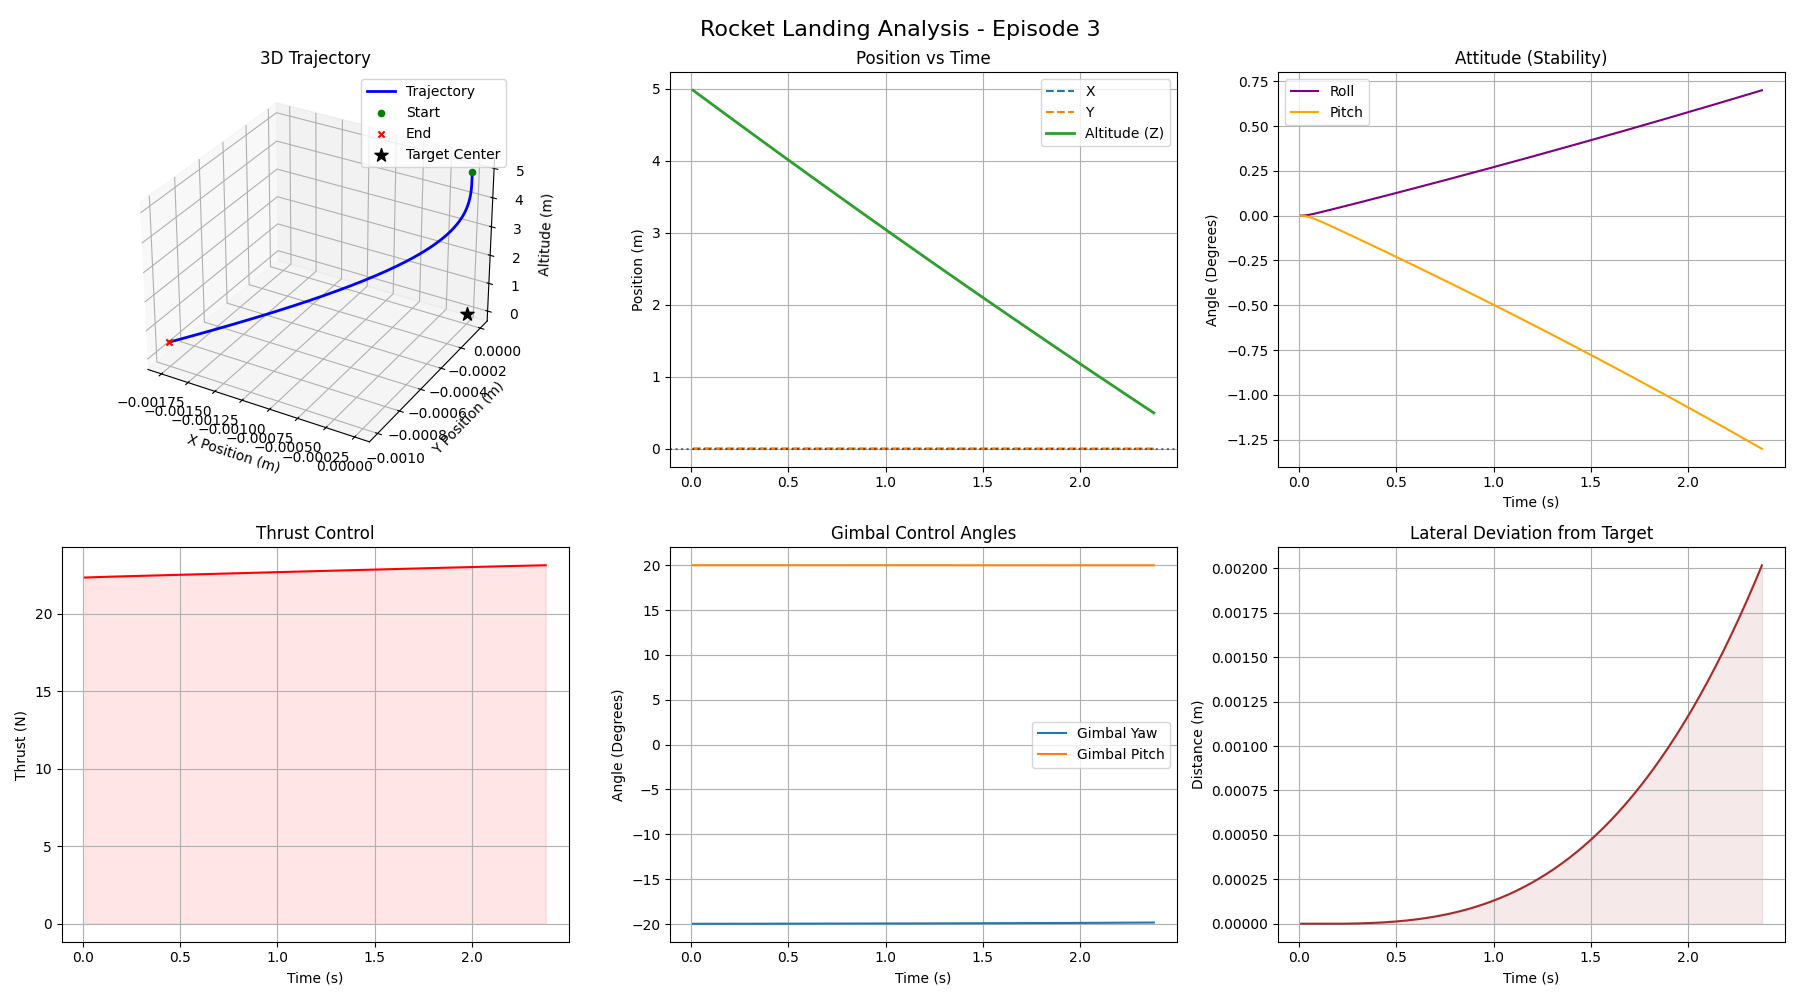
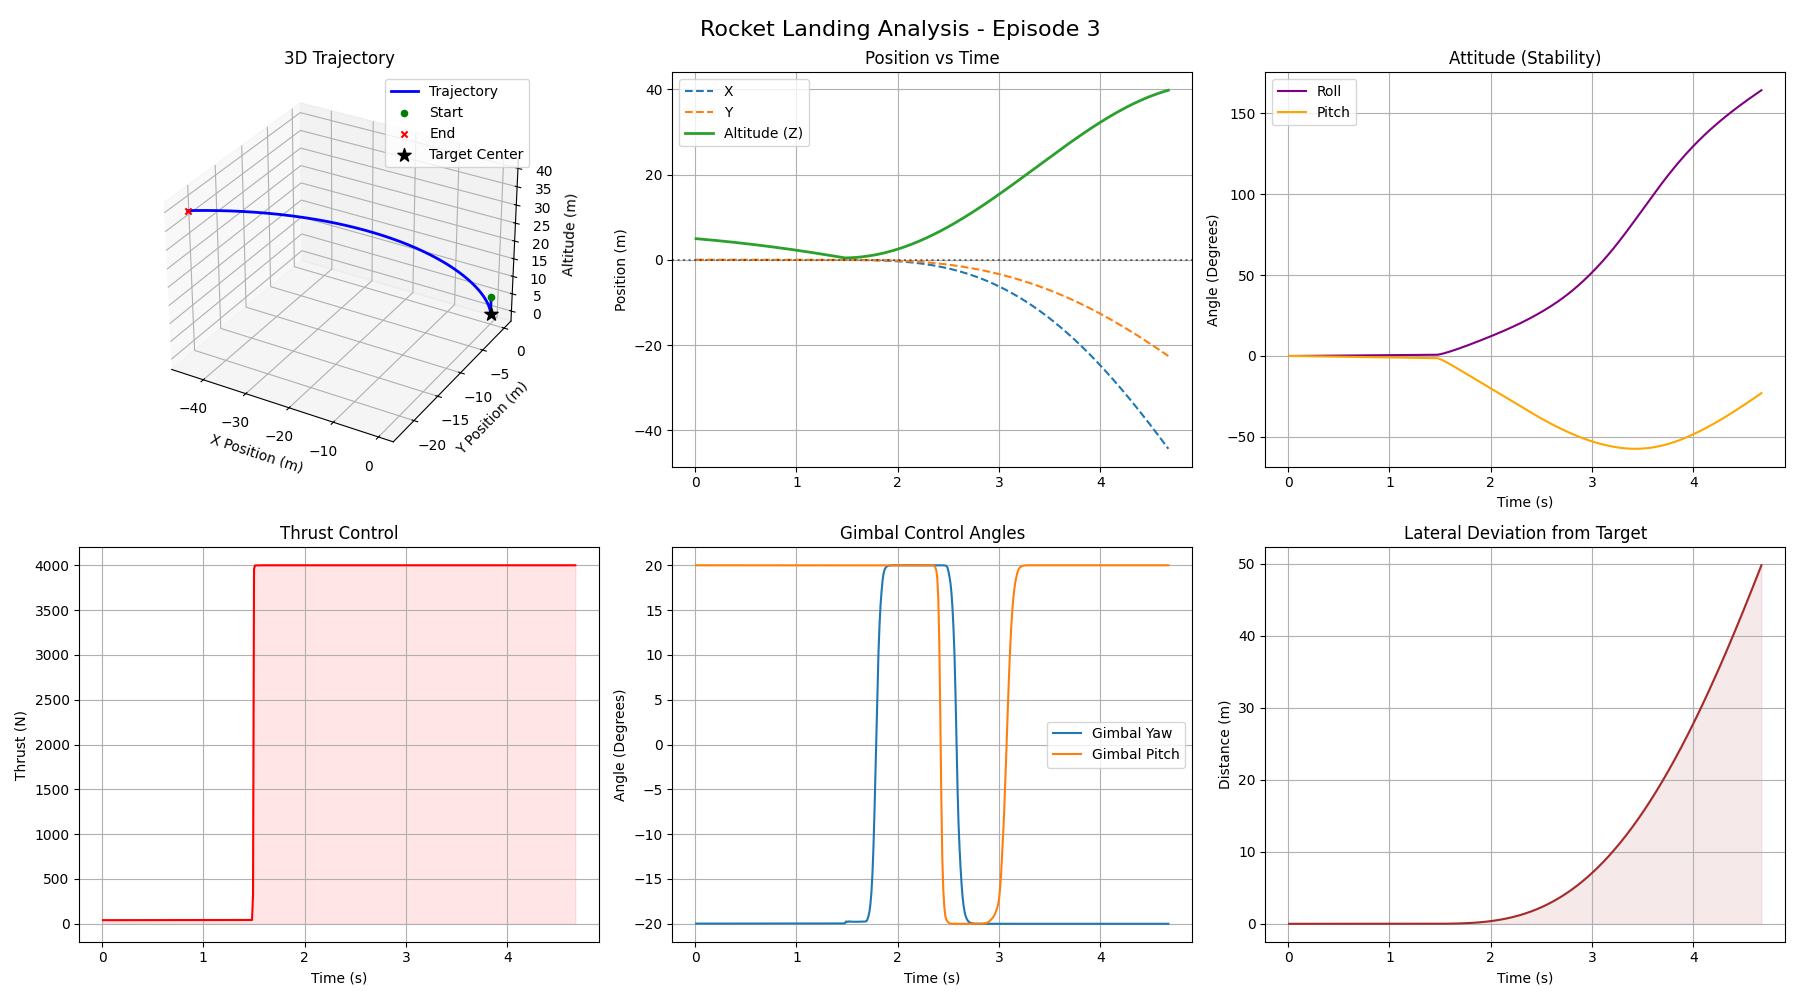
updated

diff --git a/rocket_env/rocket_landing_env_2.py b/rocket_env/rocket_landing_env_2.py
@@ -1,5 +1,3 @@
-# rocket_env/rocket_landing_env.py
-
 import os
 import numpy as np
 import mujoco
@@ -39,20 +37,20 @@ class RocketLandingEnv(gym.Env):
 
         # Physics Constants
         self.DRY_MASS = self.model.body_mass[self.rocket_bid]
-        self.START_FUEL = 10.0
+        self.START_FUEL = 100.0
         self.ISP = 250.0
-        self.G0 = 9.81
+        self.G0 = 1.62 #9.81  # Standard gravity for Isp calculation (g0 is always Earth ref)
         self.DT = self.model.opt.timestep
 
         # Control Limits
-        self.MAX_THRUST = 2200.0
+        self.MAX_THRUST = 4000.0
         self.MAX_GIMBAL = np.deg2rad(20.0)
 
         # Task Constants
         self.TARGET_Z = 0.5
         self.MAX_STEPS = 2000
-        self.MAX_LATERAL_DIST = 40.0  # Reset if rocket flies this far horizontally
-        self.MAX_VELOCITY = 50.0      # Reset if rocket moves this fast
+        self.MAX_LATERAL_DIST = 50.0  # Reset if rocket flies this far horizontally
+        self.MAX_VELOCITY = 60.0      # Reset if rocket moves this fast
 
         # ----------------------------------------------------------------
         # 3. SPACES & CURRICULUM
@@ -60,22 +58,17 @@ class RocketLandingEnv(gym.Env):
         self.curriculum_level = 0
         self.max_curriculum_level = 5
         
-        # REVISED: Only Position, Velocity (Linear), and Tilt
+        # REVISED: Position, Velocity, Tilt
         self.curriculum_params = {
-            # Position
-            "initial_altitude":     (5.0, 35.0),   # Start low, go high
-            "lateral_offset":       (0.0, 15.0),   # Start center, go wide
-            
-            # Velocity (New: Random linear kicks in any direction)
-            "initial_velocity_std": (0.0, 8.0),    # m/s variance
-            
-            # Orientation
-            "initial_tilt_deg":     (0.0, 60.0),   # Up to 60 degrees tilt
+            "initial_altitude":     (5.0, 10.0),
+            "lateral_offset":       (0.0, 5.0),
+            "initial_velocity_std": (0.0, 8.0),
+            "initial_tilt_deg":     (0.0, 90.0),
         }
         
         self.success_history = []
 
-        # Observation and Action spaces remain the same...
+        # Observation and Action spaces
         obs_high = np.ones(20) * 200
         self.observation_space = spaces.Box(-obs_high, obs_high, dtype=np.float32)
         self.action_space = spaces.Box(low=-1, high=1, shape=(3,), dtype=np.float32)
@@ -107,6 +100,7 @@ class RocketLandingEnv(gym.Env):
         pitch_cmd  = action[2] * self.MAX_GIMBAL
 
         if self.fuel_mass > 0:
+            # Mass flow rate depends on Isp and g0 (standard gravity), not local gravity
             mdot = -thrust_cmd / (self.ISP * self.G0)
             self.fuel_mass = max(self.fuel_mass + mdot * self.DT, 0)
         else:
@@ -138,7 +132,7 @@ class RocketLandingEnv(gym.Env):
         info = {
             "success": success,
             "fuel_remaining": self.fuel_mass,
-            **reward_info  # Merges reward components into info for debugging
+            **reward_info
         }
 
         return obs, reward, terminated, truncated, info
@@ -147,59 +141,65 @@ class RocketLandingEnv(gym.Env):
     # LOGIC: REWARDS
     # =========================================================================
     def _compute_reward(self, m, thrust, terminated, success):
-        """
-        m: dict containing metrics (pos_err, vel_err, tilt, etc.)
-        """
         rewards = {}
         
-        # --- A. Shaping / Continuous Rewards ---
+        # --- A. Continuous Rewards ---
         
-        # 1. Distance & Velocity Penalty (Standard)
-        rewards["dist_pen"] = -1.0 * m["pos_err"]
-        rewards["vel_pen"]  = -0.05 * m["vel_err"] # Low penalty to allow movement
+        # 1. Distance Penalty (Incentive to move to 0,0,0)
+        # Increased weight to ensure it doesn't just hover far away
+        rewards["dist_pen"] = -2.0 * m["pos_err"]
         
-        # 2. Upright Bonus (Dense)
-        # Quat w=1 means upright. w^2 gives a nice curve 0 to 1.
-        rewards["upright"] = 1.0 * (m["quat_w"] ** 2)
+        # 2. Lateral Shaping (Strong incentive to center X/Y)
+        # Explicitly punishes being away from the center axis
+        rewards["lat_pen"]  = -1.0 * m["lateral_dist"]
 
-        # 3. Approach Bonus (Vector alignment)
-        # Reward velocity pointing towards the target
+        # 3. Velocity Penalty
+        # Small penalty to discourage oscillation, but low enough to allow movement
+        rewards["vel_pen"]  = -0.05 * m["vel_err"]
+        
+        # 4. Upright Bonus (Dense)
+        # Reward for pointing Up (Quat w=1). 
+        rewards["upright"] = 2.0 * (m["quat_w"] ** 2)
+
+        # 5. Approach Bonus (Vector alignment)
+        # Strongly reward velocity pointing towards the target (0,0,Target_Z)
         target_vec = np.array([0, 0, self.TARGET_Z]) - m["pos"]
         dist = np.linalg.norm(target_vec)
         if dist > 0.1:
             target_dir = target_vec / dist
             approach_vel = np.dot(m["vel"], target_dir)
-            rewards["approach"] = 0.5 * approach_vel
+            # Bonus only if moving closer
+            rewards["approach"] = 1.0 * approach_vel if approach_vel > 0 else 0.0
         else:
             rewards["approach"] = 0.0
 
-        # 4. Descent Profile (Glide Slope)
-        # Desired vertical velocity decreases as we get closer to the ground
+        # 6. Descent Profile (Glide Slope)
+        # Reward matching the ideal descent rate
         desired_vz = -1.0 * max(m["z"] - self.TARGET_Z, 0.0)
         desired_vz = np.clip(desired_vz, -10.0, -0.5)
-        # Reward for matching this velocity
         rewards["descent"] = 1.0 * np.exp(-0.5 * abs(m["vz"] - desired_vz))
 
-        # 5. Action costs
+        # 7. Costs
         rewards["fuel"] = -0.0002 * thrust
         rewards["spin"] = -0.1 * m["ang_err"]
 
-        # --- B. Terminal Rewards (Sparse) ---
+        # --- B. Terminal Rewards ---
         rewards["terminal"] = 0.0
         
         if terminated:
             if success:
-                rewards["terminal"] = 300.0
-                print("🌟 SUCCESS LANDING!")
+                # Big bonus for landing at the target
+                rewards["terminal"] = 500.0
+                print("🌟 PERFECT LANDING!")
             elif m["z"] < 0.1:  # Ground crash
                 rewards["terminal"] = -100.0
-            elif m["lateral_dist"] > self.MAX_LATERAL_DIST:  # Out of bounds
-                rewards["terminal"] = -50.0
-            elif m["vel_err"] > self.MAX_VELOCITY:  # Too fast
-                rewards["terminal"] = -50.0
+            elif m["lateral_dist"] > self.MAX_LATERAL_DIST:
+                rewards["terminal"] = -100.0
+            elif m["vel_err"] > self.MAX_VELOCITY:
+                rewards["terminal"] = -100.0
 
-        # Sum total
-        total_reward = sum(rewards.values()) + 0.1  # +0.1 survival bonus
+        # Sum total (plus small survival bonus)
+        total_reward = sum(rewards.values()) + 0.1
 
         return total_reward, rewards
 
@@ -211,28 +211,26 @@ class RocketLandingEnv(gym.Env):
         truncated = False
         success = False
 
-        # 1. Crash (Ground Hit)
-        if m["z"] < 0.1:
+        # 1. Failure Modes
+        if m["z"] < 0.4: # Ground Contact
             terminated = True
         
-        # 2. Out of Bounds
-        if m["lateral_dist"] > self.MAX_LATERAL_DIST:
+        if m["lateral_dist"] > self.MAX_LATERAL_DIST: # Flew too far away
             terminated = True
             
-        # 3. Unstable / Too Fast
-        if m["vel_err"] > self.MAX_VELOCITY:
+        if m["vel_err"] > self.MAX_VELOCITY: # Going supersonic (unstable)
             terminated = True
 
-        # 4. Success Conditions
-        # Low height, close to center, slow speed, upright
-        if (0.0 < m["z"] < 1.0 and 
-            m["pos_err"] < 0.5 and 
-            m["vel_err"] < 0.5 and 
+        # 2. Success Condition (Strict Precision Landing)
+        # Must be very close to (0,0, Target_Z)
+        if (0.0 < m["z"] < 0.8 and 
+            m["pos_err"] < 0.5 and   # Stricter position requirement (0.3m)
+            m["vel_err"] < 0.2 and 
             m["tilt"] < 0.05):
             success = True
             terminated = True
 
-        # 5. Time Limit
+        # 3. Time Limit
         if self.step_count >= self.MAX_STEPS:
             truncated = True
 
@@ -247,6 +245,11 @@ class RocketLandingEnv(gym.Env):
         
         # 1. Reset Physics
         mujoco.mj_resetData(self.model, self.data)
+        
+        # FORCE MOON GRAVITY (approx 1.62 m/s^2)
+        # This ensures the gravity is consistent regardless of XML settings
+        self.model.opt.gravity[:] = [0, 0, -1.62]
+        
         self._apply_curriculum_reset()
         
         # 2. Reset Parameters
@@ -256,7 +259,7 @@ class RocketLandingEnv(gym.Env):
         
         mujoco.mj_forward(self.model, self.data)
 
-        # 3. Viewer Sync (Do not close!)
+        # 3. Viewer Sync
         if self.viewer is not None:
             self.viewer.sync()
 
@@ -267,7 +270,6 @@ class RocketLandingEnv(gym.Env):
             return
 
         if self.viewer is None:
-            # Launch viewer in passive mode (runs on separate thread)
             self.viewer = mujoco.viewer.launch_passive(self.model, self.data)
 
         try:
@@ -290,10 +292,7 @@ class RocketLandingEnv(gym.Env):
         tilt_max = self._curriculum_interp("initial_tilt_deg")
         vel_std  = self._curriculum_interp("initial_velocity_std")
 
-        # -----------------------------------------------------------
-        # A. POSITION (Altitude + Lateral Offset)
-        # -----------------------------------------------------------
-        # Randomize X/Y within the allowable lateral offset circle
+        # Position (Randomized around center)
         r = np.sqrt(np.random.uniform(0, offset**2))
         theta = np.random.uniform(0, 2*np.pi)
         x = r * np.cos(theta)
@@ -302,52 +301,35 @@ class RocketLandingEnv(gym.Env):
         
         self.data.qpos[self.qpos_adr : self.qpos_adr+3] = [x, y, z]
 
-        # -----------------------------------------------------------
-        # B. TILT (Random Direction)
-        # -----------------------------------------------------------
+        # Orientation
         if tilt_max > 0:
-            # Pick a random magnitude between 0 and max allowed tilt
             tilt_deg = np.random.uniform(0, tilt_max)
             tilt_rad = np.deg2rad(tilt_deg)
-            
-            # Pick a random axis in the XY plane to tilt around
-            # (This ensures "different directions" of tilt)
             tilt_angle_direction = np.random.uniform(0, 2*np.pi)
             axis_x = np.cos(tilt_angle_direction)
             axis_y = np.sin(tilt_angle_direction)
             
-            # Quaternion for axis-angle rotation
-            # q = [cos(theta/2), ux*sin(theta/2), uy*sin(theta/2), uz*sin(theta/2)]
             half_angle = tilt_rad / 2
             q_tilt = np.array([
                 np.cos(half_angle),
                 axis_x * np.sin(half_angle),
                 axis_y * np.sin(half_angle),
-                0.0  # No Z component implies rotation vector is in XY plane
+                0.0
             ])
             self.data.qpos[self.qpos_adr+3 : self.qpos_adr+7] = q_tilt
         else:
-            # Perfectly upright
             self.data.qpos[self.qpos_adr+3 : self.qpos_adr+7] = [1, 0, 0, 0]
 
-        # -----------------------------------------------------------
-        # C. VELOCITY (Linear Randomness)
-        # -----------------------------------------------------------
-        # Base descent velocity (always falling slightly)
+        # Velocity
         base_vz = -2.0 
-        
-        # Add random noise scaled by curriculum
         vx = np.random.uniform(-vel_std, vel_std)
         vy = np.random.uniform(-vel_std, vel_std)
         vz = np.random.uniform(-vel_std, vel_std) + base_vz
 
         self.data.qvel[self.qvel_adr : self.qvel_adr+3] = [vx, vy, vz]
-        
-        # Zero out angular velocity (since we removed it from curriculum)
         self.data.qvel[self.qvel_adr+3 : self.qvel_adr+6] = [0, 0, 0]
 
     def _get_state_metrics(self):
-        """Pre-calculates all common metrics needed for reward and logic."""
         pos = self._get_pos()
         vel = self._get_vel()
         quat = self._get_quat()
@@ -368,12 +350,7 @@ class RocketLandingEnv(gym.Env):
 
     # --- Data Accessors ---
     def _get_pos(self): return self.data.xpos[self.rocket_bid].copy()
-    def _get_vel(self):
-        # Convert world vel to body frame if needed, but here we usually want World frame for landing
-        # Note: cvel is usually in body frame. 
-        # For simplicity in this env, we might prefer World Frame linear velocity:
-        return self.data.qvel[self.qvel_adr:self.qvel_adr+3].copy()
-        
+    def _get_vel(self): return self.data.qvel[self.qvel_adr:self.qvel_adr+3].copy()
     def _get_acc(self): return self.data.cacc[self.rocket_bid][3:].copy()
     def _get_quat(self): return self.data.qpos[self.qpos_adr+3 : self.qpos_adr+7].copy()
     def _get_ang_vel(self): return self.data.cvel[self.rocket_bid][:3].copy()
@@ -404,7 +381,7 @@ class RocketLandingEnv(gym.Env):
         if rate > 0.7 and self.curriculum_level < self.max_curriculum_level:
             self.curriculum_level += 1
             print(f"🎯 Level Up: {self.curriculum_level}")
-            self.success_history = [] # Reset history on level up
+            self.success_history = []
         elif rate < 0.2 and self.curriculum_level > 0:
             self.curriculum_level -= 1
             print(f"⚠ Level Down: {self.curriculum_level}")
